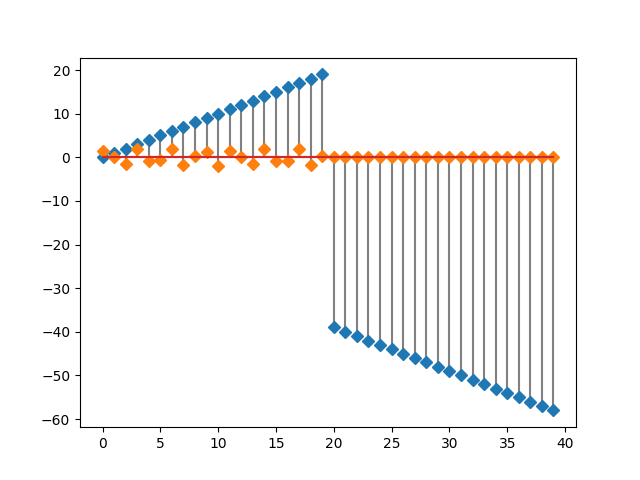
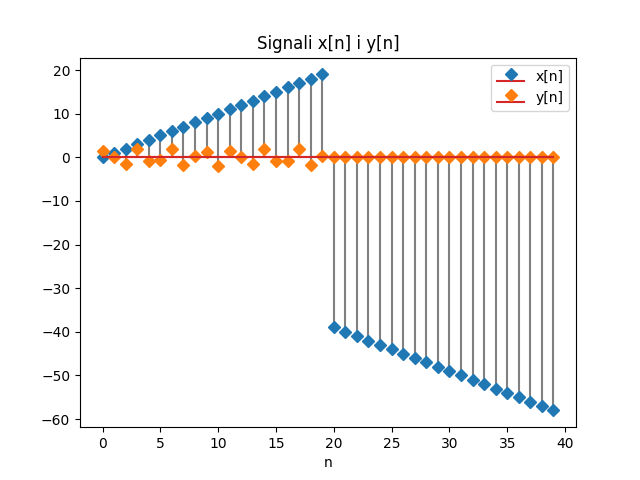
zad1 finished :check:

Changed region(s): [[0.4062, 0.0625, 0.625, 0.125], [0.7812, 0.125, 0.9062, 0.2188]]

diff --git a/zadatak1/zad1.py b/zadatak1/zad1.py
@@ -1,7 +1,3 @@
-# TODO: Nadji mesto poklapanja circ i lin
-# TODO: Nadji implementiranu circ conv
-# TODO: Dodaj komentare
-
 import numpy as np
 from matplotlib import pyplot as plt
 
@@ -10,8 +6,11 @@ P = 3
 N = 10 * (P + 1)
 
 def lin_conv(x, y):
-    N = len(x)
+    """ 
+        Returns linear convolution of two descrete signals 
+    """
 
+    N = len(x)
     x = np.concatenate((x, np.zeros(N)))
     y = np.concatenate((y, np.zeros(N)))
 
@@ -21,11 +20,19 @@ def lin_conv(x, y):
     return lin
 
 def circ_conv(x, y):
+    """ 
+        Returns circular convolution of two descrete signals 
+    """
+
     N = len(x)
     circ = np.zeros(N)
     for n in range(N):
         circ[n] = sum([x[k] * y[(n - k) % N] for k in range(N)])
     return circ
+
+def cconv(x, y):
+    """ Imitation of MATLAB's cconv function """
+    return np.real(np.fft.ifft( np.fft.fft(x)*np.fft.fft(y) ))
 
 if __name__ == "__main__":
 
@@ -39,28 +46,55 @@ if __name__ == "__main__":
     y[N//2:] = 0
 
     # Plot ulaznih signala
-    plt.stem(x, linefmt='gray', markerfmt='D')
-    plt.stem(y, linefmt='gray', markerfmt='D')
+    plt.stem(x, linefmt='gray', markerfmt='D', label='x[n]')
+    plt.stem(y, linefmt='gray', markerfmt='D', label='y[n]')
+    plt.xlabel('n')
+    plt.title('Signali x[n] i y[n]')
+    plt.legend()
     plt.savefig('figures/zad1_signali.png')
 
     # Linearna konvolucija
     lin = lin_conv(x, y)
 
-    # Plot linearne konvolucije, implementirana naspram integrisana
+    # Plot linearne konvolucije
     plt.figure()
+    plt.subplot(2, 1, 1)
+    plt.title('Linearna konvolucija')
     plt.stem(lin, linefmt='gray', markerfmt='D')
+    plt.xlabel('n')
+    plt.ylabel('Implementirana funkcija')
+
+    plt.subplot(2, 1, 2)
+    plt.stem(np.convolve(x, y), linefmt='gray', markerfmt='D')
+    plt.xlabel('n')
+    plt.ylabel('conv(x, y)')
     plt.savefig('figures/zad1_linearna_konvolucija.png')
 
-    # Cirkularnu konvoluciju
+    # Ciklicna konvoluciju
     circ = circ_conv(x, y)
 
-    # Cirkularna konvolucija
+    # Ciklicna konvolucija
     plt.figure()
+    plt.subplot(2, 1, 1)
+    plt.title('Ciklicna konvolucija')
     plt.stem(circ, linefmt='gray', markerfmt='D')
-    plt.savefig('figures/zad1_ciklicna_konvolucija.png')
+    plt.xlabel('n')
+    plt.ylabel('Implementirana funkcija')
 
+    plt.subplot(2, 1, 2)
+    plt.stem(cconv(x, y), linefmt='gray', markerfmt='D')
+    plt.xlabel('n')
+    plt.ylabel('cconv(x, y)')
+    plt.savefig('figures/zad1_ciklicna_konvolucija_provera.png')
 
-    # overlap = np.isin(lin, circ)
-    # plt.figure()
-    # plt.stem(circ, linefmt='gray', markerfmt='D')
-    # plt.stem(lin * overlap, linefmt='gray', markerfmt='D')
+    # Overlap dve funkcije
+    overlap = lin * np.isin(lin, circ)
+    overlap[overlap == 0] = None
+
+    plt.figure()
+    plt.title('Preklop linearne i ciklicne konvolucije')
+    plt.stem(lin, linefmt='gray', markerfmt='D', label='Linearna kovolucija')
+    plt.stem(overlap, linefmt='blue', markerfmt='rD', label='Preklop')
+    plt.xlabel('n')
+    plt.legend()
+    plt.savefig('figures/zad1_overlap.png')
